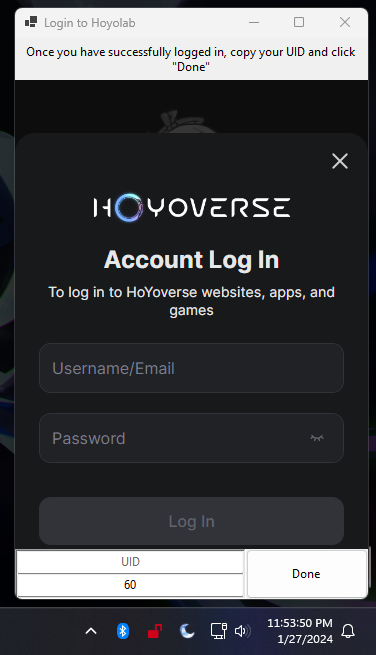
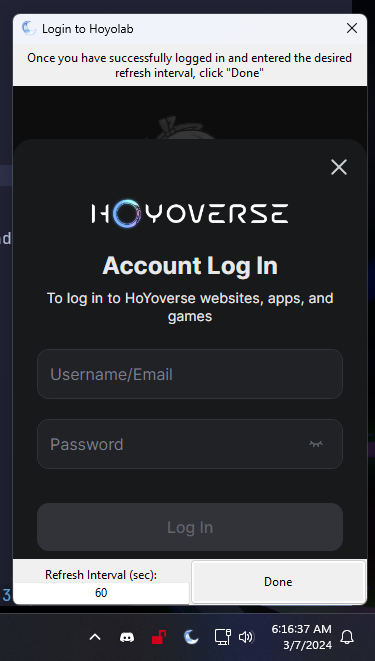
Fix crash on sleep

diff --git a/pkg/hoyo/hoyo.go b/pkg/hoyo/hoyo.go
@@ -20,23 +20,28 @@ func MakeDailyRequest(url string, ltoken string, ltuid string, actID string) (*h
 	if err != nil {
 		return nil, err
 	}
-	r.Header.Add("User-Agent", "Mozilla/5.0 (Windows NT 10.0; Win64; x64; rv:121.0) Gecko/20100101 Firefox/121.0")
-	r.Header.Add("Accept", "application/json, text/plain, */*")
-	r.Header.Add("Accept-Language", "en-US,en;q=0.5")
-	r.Header.Add("Accept-Encoding", "gzip, deflate, br")
-	r.Header.Add("Content-Type", "application/json;charset=utf-8")
-	r.Header.Add("x-rpc-device_id", "7ba783da-1cc5-4c95-87f5-760e064faf37")
-	r.Header.Add("x-rpc-app_version", "1.5.0")
-	r.Header.Add("x-rpc-platform", "4")
-	r.Header.Add("x-rpc-language", "en-us")
-	r.Header.Add("x-rpc-device_name", "")
-	r.Header.Add("Origin", "https://act.hoyolab.com")
-	r.Header.Add("Connection", "keep-alive")
-	r.Header.Add("Referer", "https://act.hoyolab.com/")
-	r.Header.Add("Cookie", fmt.Sprintf("ltoken_v2=%s; ltuid_v2=%s", ltoken, ltuid))
+	r.Header.Set("User-Agent", "Mozilla/5.0 (Windows NT 10.0; Win64; x64; rv:121.0) Gecko/20100101 Firefox/121.0")
+	r.Header.Set("Accept", "application/json, text/plain, */*")
+	r.Header.Set("Accept-Language", "en-US,en;q=0.5")
+	r.Header.Set("Accept-Encoding", "gzip, deflate, br")
+	r.Header.Set("Content-Type", "application/json;charset=utf-8")
+	r.Header.Set("x-rpc-device_id", "7ba783da-1cc5-4c95-87f5-760e064faf37")
+	r.Header.Set("x-rpc-app_version", "1.5.0")
+	r.Header.Set("x-rpc-platform", "4")
+	r.Header.Set("x-rpc-language", "en-us")
+	r.Header.Set("x-rpc-device_name", "")
+	r.Header.Set("Origin", "https://act.hoyolab.com")
+	r.Header.Set("Connection", "keep-alive")
+	r.Header.Set("Referer", "https://act.hoyolab.com/")
+	r.Header.Set("Cookie", fmt.Sprintf("ltoken_v2=%s; ltuid_v2=%s", ltoken, ltuid))
 
-	client := &http.Client{}
+	client := &http.Client{
+		Timeout: 5 * time.Second,
+	}
 	response, err := client.Do(r)
+	if err != nil {
+		return nil, err
+	}
 	return response, nil
 }
 
@@ -46,24 +51,27 @@ func MakeRequest(baseURL string, server string, genshinUID string, ltoken string
 	if err != nil {
 		return nil, err
 	}
-	r.Header.Add("User-Agent", "Mozilla/5.0 (Linux; Android 11; SAMSUNG SM-G973U) AppleWebKit/537.36 (KHTML, like Gecko) SamsungBrowser/14.2 Chrome/87.0.4280.141 Mobile Safari/537.36")
-	r.Header.Add("Accept", "application/json, text/plain, */*")
-	r.Header.Add("Accept-Language", "en-US,en;q=0.5")
-	r.Header.Add("Accept-Encoding", "gzip, deflate, br")
-	r.Header.Add("x-rpc-client_type", "5")
-	r.Header.Add("x-rpc-app_version", "1.5.0")
-	r.Header.Add("x-rpc-language", "en-us")
-	r.Header.Add("Origin", "https://act.hoyolab.com")
-	r.Header.Add("Connection", "keep-alive")
-	r.Header.Add("Referer", "https://act.hoyolab.com/")
-	r.Header.Add("Cookie", fmt.Sprintf("ltoken_v2=%s; ltuid_v2=%s", ltoken, ltuid))
-	r.Header.Add("Sec-Fetch-Dest", "empty")
-	r.Header.Add("Sec-Fetch-Mode", "cors")
-	r.Header.Add("Sec-Fetch-Site", "same-site")
+	r.Header.Set("User-Agent", "Mozilla/5.0 (Linux; Android 11; SAMSUNG SM-G973U) AppleWebKit/537.36 (KHTML, like Gecko) SamsungBrowser/14.2 Chrome/87.0.4280.141 Mobile Safari/537.36")
+	r.Header.Set("Accept", "application/json, text/plain, */*")
+	r.Header.Set("Accept-Language", "en-US,en;q=0.5")
+	r.Header.Set("Accept-Encoding", "gzip, deflate, br")
+	r.Header.Set("x-rpc-client_type", "5")
+	r.Header.Set("x-rpc-app_version", "1.5.0")
+	r.Header.Set("x-rpc-language", "en-us")
+	r.Header.Set("Origin", "https://act.hoyolab.com")
+	r.Header.Set("Connection", "keep-alive")
+	r.Header.Set("Referer", "https://act.hoyolab.com/")
+	r.Header.Set("Cookie", fmt.Sprintf("ltoken_v2=%s; ltuid_v2=%s", ltoken, ltuid))
+	r.Header.Set("Sec-Fetch-Dest", "empty")
+	r.Header.Set("Sec-Fetch-Mode", "cors")
+	r.Header.Set("Sec-Fetch-Site", "same-site")
 
 	client := &http.Client{}
 	r.Header.Add("DS", GenerateDS())
 	response, err := client.Do(r)
+	if err != nil {
+		return nil, err
+	}
 	return response, nil
 }
 

diff --git a/pkg/logging/log.go b/pkg/logging/log.go
@@ -24,6 +24,7 @@ func Warn(fmt string, v ...any) {
 }
 
 func SetFile(file string) {
+	log.SetFlags(log.LstdFlags | log.Llongfile)
 	var err error
 	f, err = os.OpenFile(file, os.O_RDWR|os.O_CREATE|os.O_TRUNC, 0666)
 	if err != nil {

diff --git a/README.md b/README.md
@@ -26,18 +26,11 @@ Add your real-time notes to your system tray!
     <img width=300 src="./assets/login.png" />
 </p>
 
-2. Wait for the Battle Chronicle page to load, and copy your UID.
-3. Paste your UID into the input box at the bottom.
-
-<p align="center">
-    <img width=300 src="./assets/uid.png" />
-</p>
-
-4. *(optional)* Change the refresh interval to match how often you would like your data to refresh.
-5. Click "Done"
+2. *(optional)* Change the refresh interval to match how often you would like your data to refresh (in seconds).
+3. Click "Done"
 
 # 🏃 Run on startup
-- Create a shortcut to either exe.
+- Create a shortcut to either executable.
 - Press `Win + R` and type in `shell:startup` and hit Enter.
 - Copy the shortcut to this location.
 
